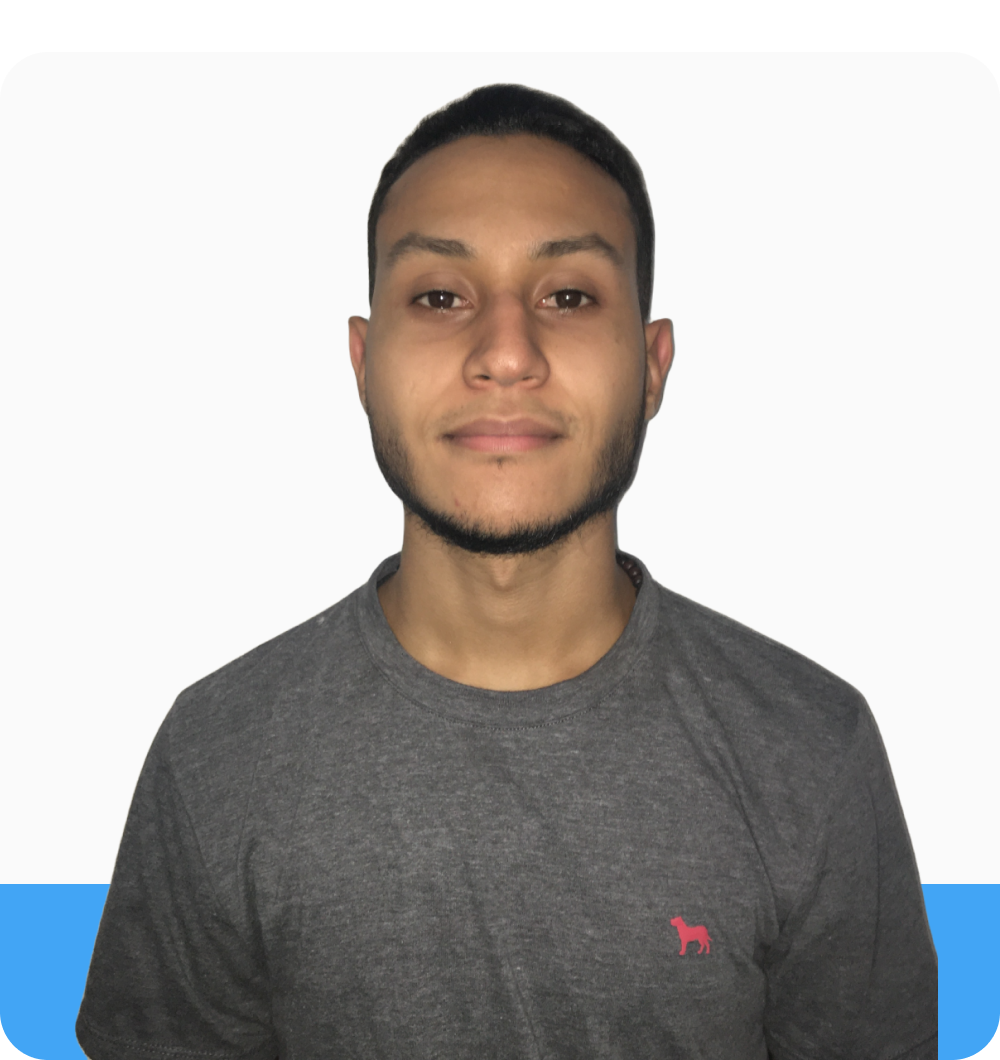
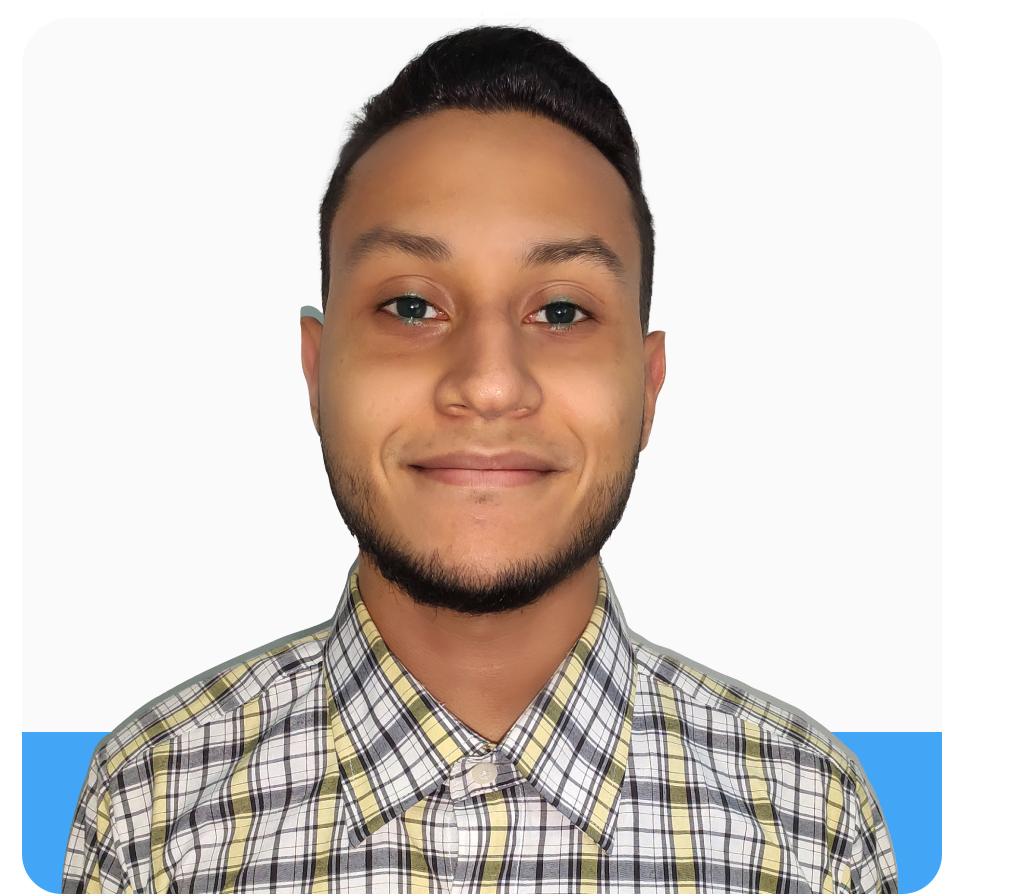
Actualizando foto de mi portafolio

diff --git a/css/hero.css b/css/hero.css
@@ -49,6 +49,6 @@
 @media screen and (min-width: 1024px) {
   .hero-image img {
     inline-size: 500px;
-    block-size: 536px;
+    block-size: 500px;
   }
 }
